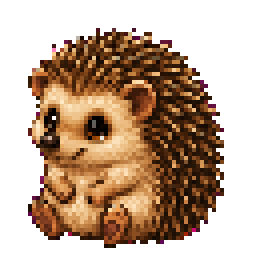
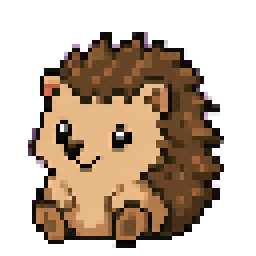
Simplify companion sprites and add butterflies

diff --git a/src/components/PetGame.tsx b/src/components/PetGame.tsx
@@ -94,7 +94,7 @@ export function PetGame({ books, pet, challenge, onActivate, onSetPet }: { books
   return <div className="space-y-6">
     <div className="grid lg:grid-cols-[1.15fr_.85fr] gap-5">
       <section className="rounded-card border border-line bg-surface shadow-card overflow-hidden">
-        <div className="relative"><PetScene phase={phase} pet={active} interactive onGreet={() => setGreeting(current => !current)} className="h-64 sm:h-80" />{greeting && <div role="status" className="absolute left-1/2 top-14 -translate-x-1/2 whitespace-nowrap rounded-xl bg-white/95 px-3 py-2 text-xs font-bold text-[#314457] shadow-lg">¡Me encanta leer contigo! ♥</div>}<div className="absolute top-4 left-4 flex gap-2"><span className="rounded-full bg-[#263742]/85 px-3 py-1.5 text-[11px] text-white font-bold backdrop-blur">✦ NIVEL {progress.level}</span><span className="rounded-full bg-[#263742]/85 px-3 py-1.5 text-[11px] text-white font-bold backdrop-blur">{species.label}</span></div><span className="absolute bottom-3 right-3 text-[10px] font-bold text-white/90 bg-[#263742]/70 rounded-full px-2 py-1">TU RINCÓN DE LECTURA</span></div>
+        <div className="relative"><PetScene phase={phase} pet={active} interactive onGreet={() => setGreeting(current => !current)} className="h-64 sm:h-80" />{greeting && <div role="status" className="absolute left-1/2 top-14 -translate-x-1/2 whitespace-nowrap rounded-xl bg-white/95 px-3 py-2 text-xs font-bold text-[#314457] shadow-lg">¡Me encanta leer contigo! ♥</div>}<div className="absolute top-4 left-4 flex gap-2"><span className="rounded-full bg-[#263742]/85 px-3 py-1.5 text-[11px] text-white font-bold backdrop-blur">✦ NIVEL {progress.level}</span><span className="rounded-full bg-[#263742]/85 px-3 py-1.5 text-[11px] text-white font-bold backdrop-blur">{species.label}</span></div></div>
         <div className="p-5 sm:p-6"><div className="flex flex-wrap justify-between gap-3 items-start"><div><p className="text-[10px] uppercase tracking-[.16em] text-accent font-extrabold">Compañero de aventuras</p><h3 className="font-display font-semibold text-3xl mt-1">{petName(active)}</h3><p className="text-xs text-ink3 mt-1">{species.label} · {species.skins[active.skin]}</p></div><span className="inline-flex items-center gap-1.5 rounded-full bg-accent/10 text-accent px-3 py-1.5 text-xs font-bold"><Sparkles size={14} /> {number(progress.total)} páginas</span></div>
           <div className="mt-5"><div className="flex justify-between text-xs font-semibold text-ink2 mb-2"><span>Nivel {progress.level}</span><span>{number(progress.levelPages)} / 100 para el siguiente nivel</span></div><ProgressBar pct={progress.levelPages} className="h-2.5" /><p className="text-xs text-ink3 mt-2">Cada 100 páginas registradas subís un nivel juntos.</p></div>
           <form className="mt-5 flex gap-2" onSubmit={event => { event.preventDefault(); update({ name }); }}><label htmlFor="pet-name" className="sr-only">Nombre de la mascota</label><input id="pet-name" maxLength={24} value={name} onChange={e => setName(e.target.value)} placeholder="Ponle un nombre" className="min-w-0 flex-1 rounded-btn border border-line bg-sunken px-3 py-2 text-sm text-ink" /><button type="submit" className="rounded-btn bg-primary text-onprimary px-4 py-2 text-sm font-bold">Guardar</button></form>

diff --git a/src/petGame.ts b/src/petGame.ts
@@ -66,11 +66,11 @@ const COMPANION_TYPES = [
   ['bat', 'Murciélago', 'azul', 'azul'], ['penguin', 'Pingüino', 'azul', 'azul'],
   ['raccoon', 'Mapache', 'castano', 'castaño'], ['duck', 'Patito', 'blanco', 'blanco'],
   ['sheep', 'Ovejita', 'melocoton', 'melocotón'], ['mouse', 'Ratoncito', 'canela', 'canela'],
-  ['puppy', 'Perrito', 'castano', 'castaño'], ['snail', 'Caracol', 'verde', 'verde'],
+  ['butterfly', 'Mariposa', 'azul', 'azul'], ['snail', 'Caracol', 'verde', 'verde'],
   ['bee', 'Abejita', 'rosada', 'rosada'],
 ] as const;
 const COMPANIONS = COMPANION_TYPES.flatMap(([image, label, alternate, alternateLabel]) => [
-  { image: `/pets/companions/${image}-clasico.webp`, label: `${label} clásico` },
+  { image: `/pets/companions/${image}-clasico.webp`, label: image === 'butterfly' ? 'Mariposa monarca' : `${label} clásico` },
   { image: `/pets/companions/${image}-${alternate}.webp`, label: `${label} ${alternateLabel}` },
 ]);
 let companionIndex = 0;
